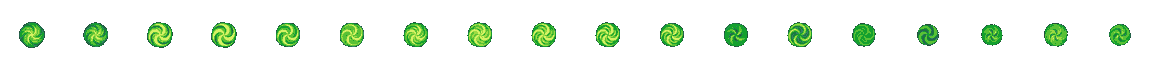
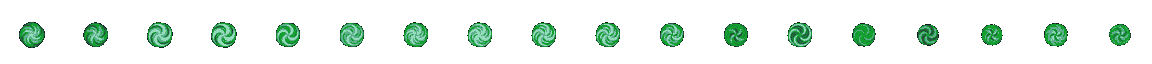
fix: efeitos dos monstros na AAP-64 restrita do jogo (sem neons)
Claude-Session: https://claude.ai/code/session_01R2H6a2dcxFcRKUr6aohu8K

diff --git a/tools/pixel_art/enemy_fx/import_enemy_fx.py b/tools/pixel_art/enemy_fx/import_enemy_fx.py
@@ -21,7 +21,7 @@ ROOT = pathlib.Path(__file__).resolve().parents[3]
 SOURCE = ROOT / "tools" / "pixel_art" / "enemy_fx" / "source"
 TARGET = ROOT / "assets" / "pixel_art" / "effects" / "enemy_attacks"
 sys.path.insert(0, str(ROOT / "tools" / "pixel_art" / "monsters"))
-from recolor_monsters import AAP64, build_mapping, build_tint_mapping, monster_colors, recolor  # noqa: E402
+from recolor_monsters import PALETTE, build_mapping, build_tint_mapping, monster_colors, recolor  # noqa: E402
 
 CELL = 64
 
@@ -40,12 +40,13 @@ EFFECTS = {
     "thorn_burst": ("527", 1),       # espinhos violeta que brotam do chão (planta roxa)
 }
 
-# Efeitos de luz: a paleta inteira (os laranjas e verdes vivos dão o brilho que as cores apagadas dos monstros não dão).
-PALETTE = AAP64
-
-# Efeitos tingidos numa rampa pela luminosidade (do escuro ao claro): o violeta do pacote cai na rampa de sangue
-# pelo mapeamento comum (matiz perto do vermelho), então os espinhos da planta roxa vão direto para a rampa violeta.
-TINTED = {"thorn_burst": ["141013", "242234", "403353", "793a80", "bc4a9b"]}
+# Mesma AAP-64 restrita dos monstros (recolor_monsters.PALETTE): sem os neons, o ciano, o rosa e o verde-limão.
+# Efeitos tingidos numa rampa pela luminosidade (do escuro ao claro). O violeta do pacote cairia na rampa de sangue
+# pelo mapeamento comum (matiz perto do vermelho) e os verdes claros puxariam para o amarelo: espinhos e esporos vão
+# direto para a rampa violeta e a verde da AAP-64.
+VIOLET = ["141013", "242234", "403353", "5b3138", "793a80", "793a80", "b9bffb"]
+GREEN = ["122020", "24523b", "1a7a3e", "14a02e", "5daf8d", "92dcba"]
+TINTED = {"thorn_burst": VIOLET, "spore_orb": GREEN, "spore_burst": GREEN}
 
 
 def extract(packs):
